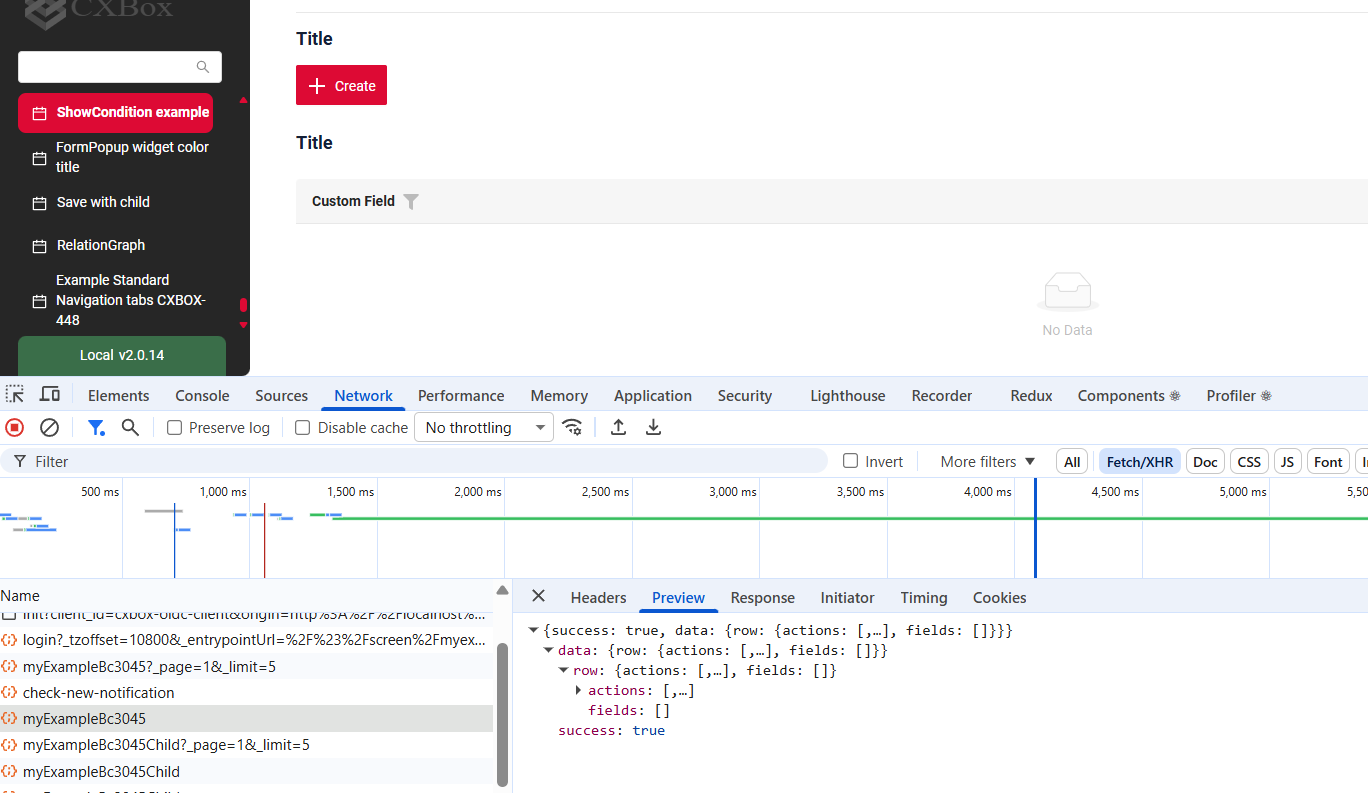
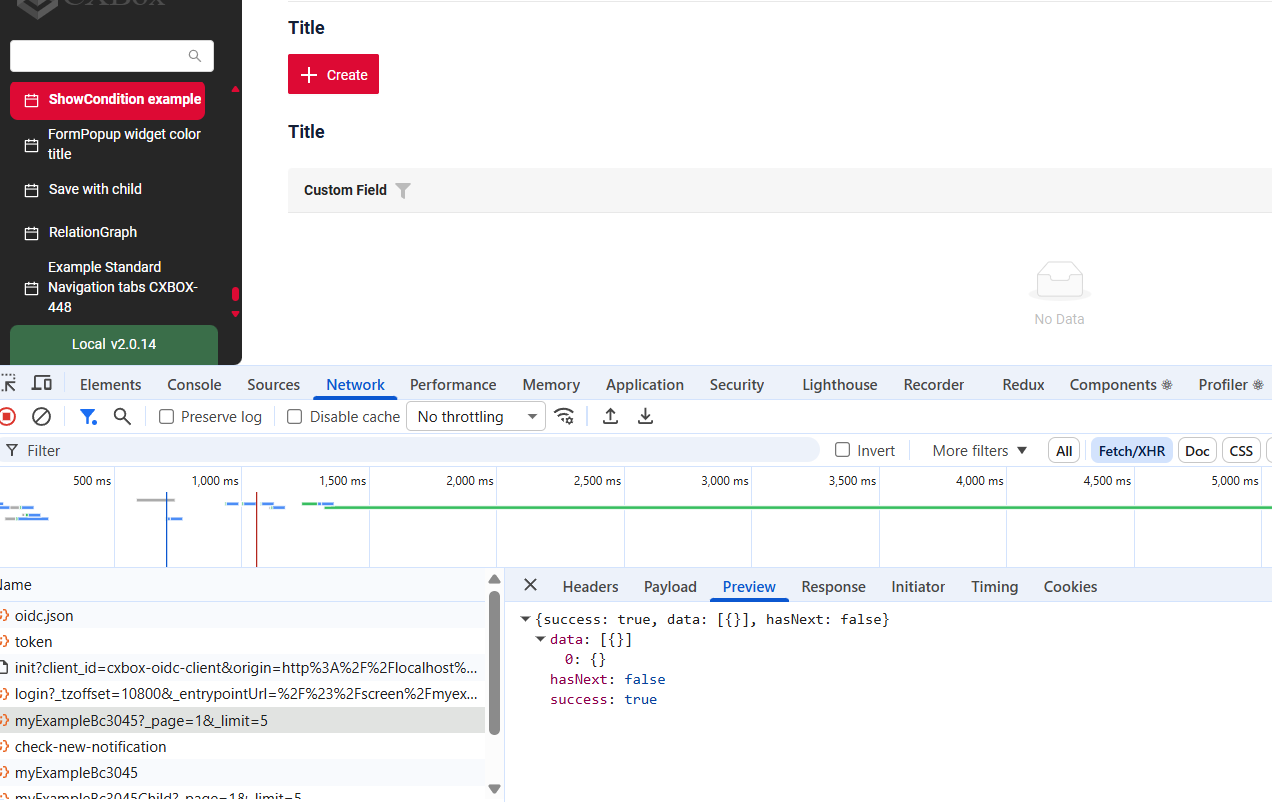
CXBOX-730| Added. Added Oracle support

Changed region(s): [[0.0, 0.0, 1.0, 1.0], [0.7665, 0.3934, 0.8585, 0.4237]]

diff --git a/docs/new/version2018.md b/docs/new/version2018.md
@@ -12,19 +12,7 @@
 
 ### CXBOX ([Demo](http://demo.cxbox.org))  
 
-#### Fixed: Duplicate Actions in Debug Panel
-<!-- CXBOX-1256 -->  
-This issue occurred when the same action (button) was assigned to multiple roles that belong to a single user. 
 
-When the `widgetActionGroupsEnabled` = false and responsibilities are loaded from the standardized `RESPONSIBILITIES_ACTION.csv` file via Liquibase,
-duplicate action buttons could appear in the Debug panel.
-
-=== "After"
-    ![CXBOX-1256_after.png](v2.0.18/CXBOX-1256_after.png)
-=== "Before" 
-    ![CXBOX-1256_before.png](v2.0.18/CXBOX-1256_before.png)
-
- 
 #### Other Changes
 see [cxbox-demo changelog](https://github.com/CX-Box/cxbox-demo/releases/tag/v.2.0.18)
 
@@ -38,6 +26,22 @@ See [cxbox-ui 2.8.0 changelog](https://github.com/CX-Box/cxbox-ui/releases/tag/2
 
 ### CXBOX 4.0.0-M23 ([Core](https://github.com/CX-Box/cxbox/tree/cxbox-4.0.0-M23))
 We have released a new 4.0.0-M23 CORE version.
+#### Fixed: We have restored Oracle support in this release.
+<!-- CXBOX-730 --> 
+We have restored Oracle support in this release.
+
+#### Fixed: Duplicate Actions in Debug Panel
+<!-- CXBOX-1256 -->  
+This issue occurred when the same action (button) was assigned to multiple roles that belong to a single user.
+
+When the `widgetActionGroupsEnabled` = false and responsibilities are loaded from the standardized `RESPONSIBILITIES_ACTION.csv` file via Liquibase,
+duplicate action buttons could appear in the Debug panel.
+
+=== "After"
+![CXBOX-1256_after.png](v2.0.18/CXBOX-1256_after.png)
+=== "Before"
+![CXBOX-1256_before.png](v2.0.18/CXBOX-1256_before.png)
+
 
 #### Fixed: Added to the API response  when no fields of BC
 <!-- CXBOX-1242 --> 